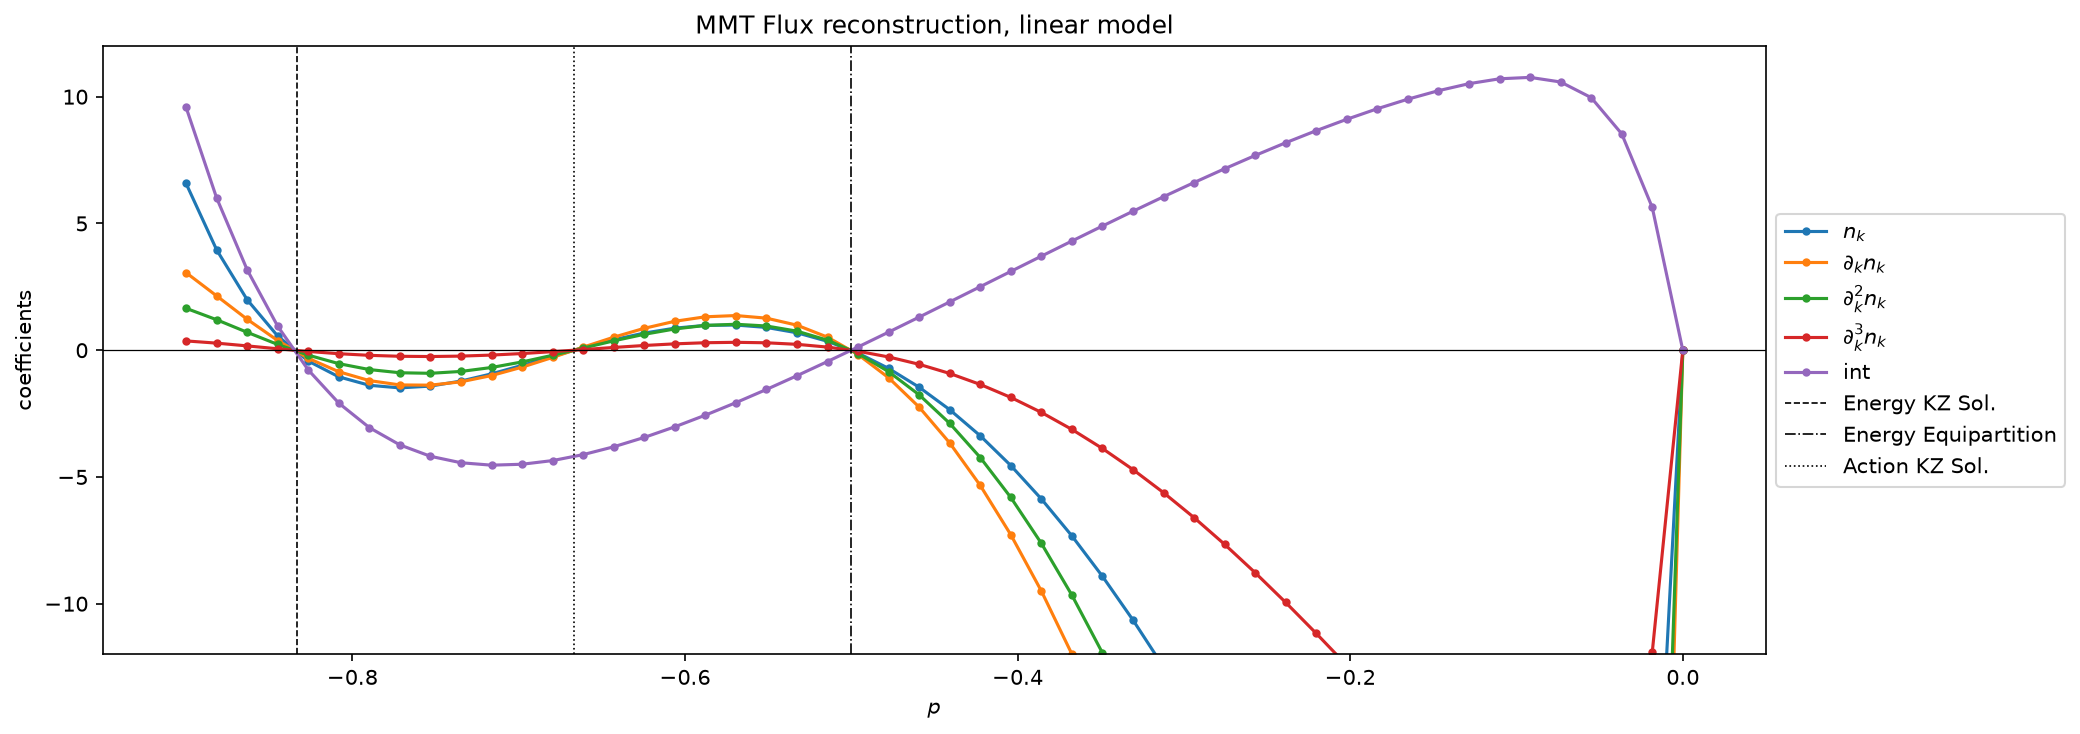
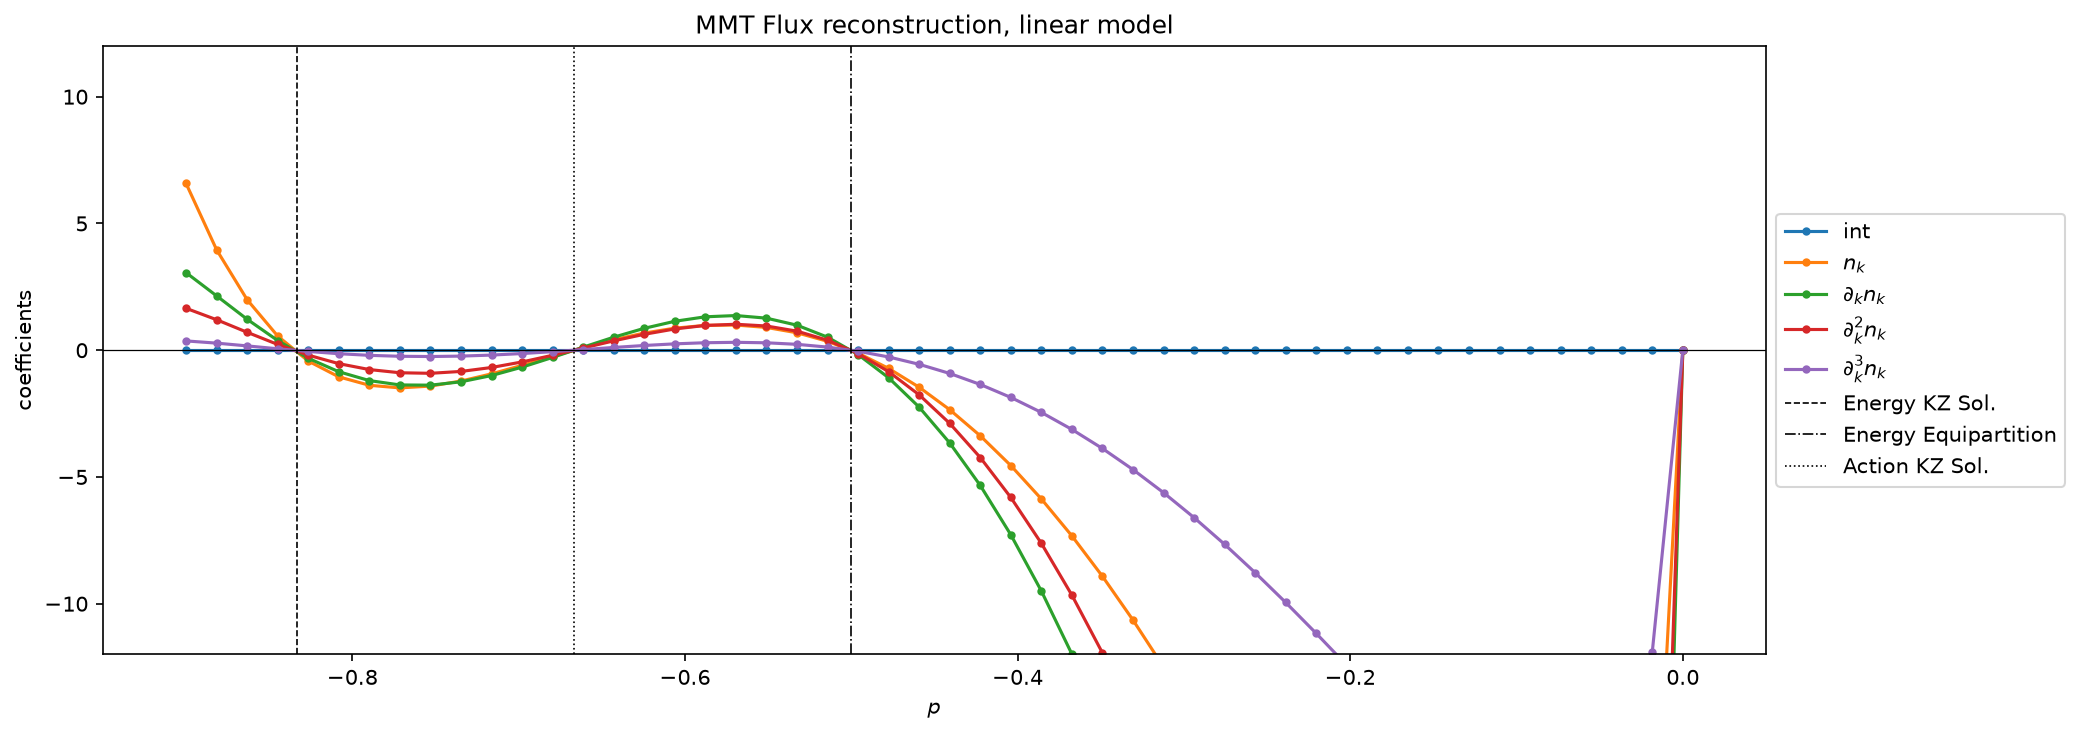
refactor: update fit_operators_at_fixed_p_linear to include intercept and adjust max_order; modify plotting functions accordingly---first try for intercept with scaling

diff --git a/src/physics/linear_operator_library_mmt.py b/src/physics/linear_operator_library_mmt.py
@@ -10,13 +10,14 @@ def power_law_derivatives_linear(k, p, max_order, k_min, k_max):
     N = np.trapezoid(domain**p, domain)
 
     derivs = []
-    def nk(k,p): return N*(k ** p)
-    def dk_nk(k,p): return N*(k ** (p-1)) *p 
-    def d2k_nk2(k,p): return N*p*(p-1)*(k**(p-2))
-    def d3k_n_k3(k,p): return N*p*(p-1)*(p-2)*(k**(p-3))
+    def intercept(k,p): return np.full_like(k, N**2)
+    def nk(k,p): return (N**2)*(k ** p)
+    def dk_nk(k,p): return (N**2)*(k ** (p-1)) *p 
+    def d2k_nk2(k,p): return (N**2)*p*(p-1)*(k**(p-2))
+    def d3k_n_k3(k,p): return (N**2)*p*(p-1)*(p-2)*(k**(p-3))
 
     for order in range(max_order + 1):
-        derivs.append([nk, dk_nk, d2k_nk2, d3k_n_k3][order](k, p))
+        derivs.append([intercept, nk, dk_nk, d2k_nk2, d3k_n_k3][order](k, p))
     return derivs
 
 def fit_operators_at_fixed_p_linear(p, A, k, k_min, k_max, beta=0.25,
@@ -27,7 +28,7 @@ def fit_operators_at_fixed_p_linear(p, A, k, k_min, k_max, beta=0.25,
     derivs = power_law_derivatives_linear(k, p, max_order, k_min, k_max)
 
     F_true = np.array([
-        flux_ab(power_law, (p, A), [0, kc], [kc, np.inf], beta, "Energy", N=N, IntN=IntN)[0]
+        flux_ab(power_law, (p, A), [0, kc], [kc, np.inf], beta, "Action", N=N, IntN=IntN)[0]
         for kc in k
     ])
 
@@ -35,7 +36,7 @@ def fit_operators_at_fixed_p_linear(p, A, k, k_min, k_max, beta=0.25,
     scaler = StandardScaler()
     X_scaled = scaler.fit_transform(X)
 
-    reg_exact = Ridge(alpha=ridge_alpha, fit_intercept=True).fit(X_scaled, F_true)
+    reg_exact = Ridge(alpha=ridge_alpha, fit_intercept=False).fit(X_scaled, F_true)
 
     r2_exact = reg_exact.score(X_scaled, F_true)
     F_fit = reg_exact.predict(X_scaled)
@@ -43,33 +44,32 @@ def fit_operators_at_fixed_p_linear(p, A, k, k_min, k_max, beta=0.25,
 
     coef_physical = reg_exact.coef_ / scaler.scale_
 
-    return (reg_exact.coef_, reg_exact.intercept_, r2_exact, rel_error, coef_physical)
+    return (reg_exact.coef_, r2_exact, rel_error, coef_physical)
 
 def plot_coefficients_vs_p_linear(ps, A, k, k_min, k_max, beta=0.25,
                                N=300, IntN=200, max_order=3, save_path=None, show=True):
     ps = np.asarray(ps)
 
-    labels = [r"$n_k$", r"$\partial_k n_k$", r"$\partial^2_k n_k$", r"$\partial^3_k n_k$"
+    labels = ["int", r"$n_k$", r"$\partial_k n_k$", r"$\partial^2_k n_k$", r"$\partial^3_k n_k$"
               ][:max_order + 1]
 
-    res = { "exact": {lab: [] for lab in labels + ["int"] }}
+    res = { "exact": {lab: [] for lab in labels}}
     r2_exact_list = []
     rel_err_exact_list = []
 
     for p in ps:
-        (coef_e, int_e, r2_e, rel_e, coef_physical) = fit_operators_at_fixed_p_linear(
+        (coef_e, r2_e, rel_e, coef_physical) = fit_operators_at_fixed_p_linear(
             p, A, k, k_min, k_max, beta=beta, N=N, IntN=IntN, max_order=max_order, ridge_alpha = 1e-3
         )
         for lab, c in zip(labels, coef_e):
             res["exact"][lab].append(c)
 
-        res["exact"]["int"].append(int_e)
         rel_err_exact_list.append(rel_e)
         r2_exact_list.append(r2_e)
 
     plt.figure(figsize=(14, 5))
 
-    for lab in labels + ["int"] :
+    for lab in labels :
         plt.plot(ps, res["exact"][lab], "o-", markersize = 3, label = lab)
 
     plt.axhline(0, color="black", linewidth=0.6)
@@ -95,21 +95,20 @@ def plot_coefficients_physical(ps, A, k, k_min, k_max, beta=0.25,
                                N=300, IntN=200, max_order=3, save_path=None, show=True):
     ps = np.asarray(ps)
 
-    labels = [r"$n_k$", r"$\partial_k n_k$", r"$\partial^2_k n_k$", r"$\partial^3_k n_k$"][:max_order + 1] 
-    res = { "exact": {lab: [] for lab in labels + ["int"] }}   
+    labels = ["int", r"$n_k$", r"$\partial_k n_k$", r"$\partial^2_k n_k$", r"$\partial^3_k n_k$"][:max_order + 1] 
+    res = { "exact": {lab: [] for lab in labels }}   
 
     for p in ps:
-        (coef_e, int_e, r2_e, rel_e, coef_physical) = fit_operators_at_fixed_p_linear(
+        (coef_e, r2_e, rel_e, coef_physical) = fit_operators_at_fixed_p_linear(
             p, A, k, k_min, k_max, beta=beta, N=N, IntN=IntN, max_order=max_order, ridge_alpha = 1e-3
         )
         for lab, c in zip(labels, coef_physical):
             res["exact"][lab].append(c)
 
-        res["exact"]["int"].append(int_e)
 
     plt.figure(figsize=(14, 5))
     
-    for lab in labels + ["int"] :
+    for lab in labels  :
         plt.plot(ps, res["exact"][lab], "o-", markersize = 3, label = lab)
 
     plt.axhline(0, color="black", linewidth=0.6)

diff --git a/main_mmt.py b/main_mmt.py
@@ -77,22 +77,22 @@ test_data = splits["test"]
 
 #------------------ Fit dei coefficienti per il modello DeepONet e per il solver MMT (linearizzato) -----------------------------#
 
-(coef_e_l, int_e_l, r2_e_l, rel_e_l, coef_phys) = fit_operators_at_fixed_p_linear(
+(coef_e_l, r2_e_l, rel_e_l, coef_phys) = fit_operators_at_fixed_p_linear(
     p = -2/3, A = 1, k = np.linspace(0.1, 1, 50), k_min= config.K_MIN,
-    k_max = config.K_MAX, beta=0.25, N=300, IntN=200, max_order=3, ridge_alpha = 1e-3
+    k_max = config.K_MAX, beta=0.25, N=300, IntN=200, max_order=4, ridge_alpha = 1e-3
 )
 
-print("Coefficienti (solver MMT): ", coef_e_l, "intercetta: ", int_e_l ,"| R^2: ", r2_e_l, "errore relativo: ", rel_e_l)
+print("Coefficienti (solver MMT): ", coef_e_l ,"| R^2: ", r2_e_l, "errore relativo: ", rel_e_l)
 print("Coefficienti (modello fisico): ", coef_phys)
 
 plot_coefficients_vs_p_linear(
     ps = np.linspace(-0.9, 0, 50), A = 1, k = np.linspace(0.1, 1.0, 50), beta = 0.25, 
-    k_min = config.K_MIN, k_max = config.K_MAX, N=300, IntN=200, max_order=3,
-    save_path="outputs_mmt/coefficients_vs_p_mmt_linear_energy", show=False 
+    k_min = config.K_MIN, k_max = config.K_MAX, N=300, IntN=200, max_order=4,
+    save_path="outputs_mmt/coefficients_vs_p_mmt_linear", show=False 
 )
 
 plot_coefficients_physical(
     ps = np.linspace(-0.9, 0, 50), A = 1, k = np.linspace(0.1, 1.0, 50), beta = 0.25, 
-    k_min = config.K_MIN, k_max = config.K_MAX, N=300, IntN=200, max_order=3,
-    save_path="outputs_mmt/coefficients_physical_vs_p_mmt_physical_energy", show=False 
+    k_min = config.K_MIN, k_max = config.K_MAX, N=300, IntN=200, max_order=4,
+    save_path="outputs_mmt/coefficients_physical_vs_p_mmt_physical", show=False 
 )
